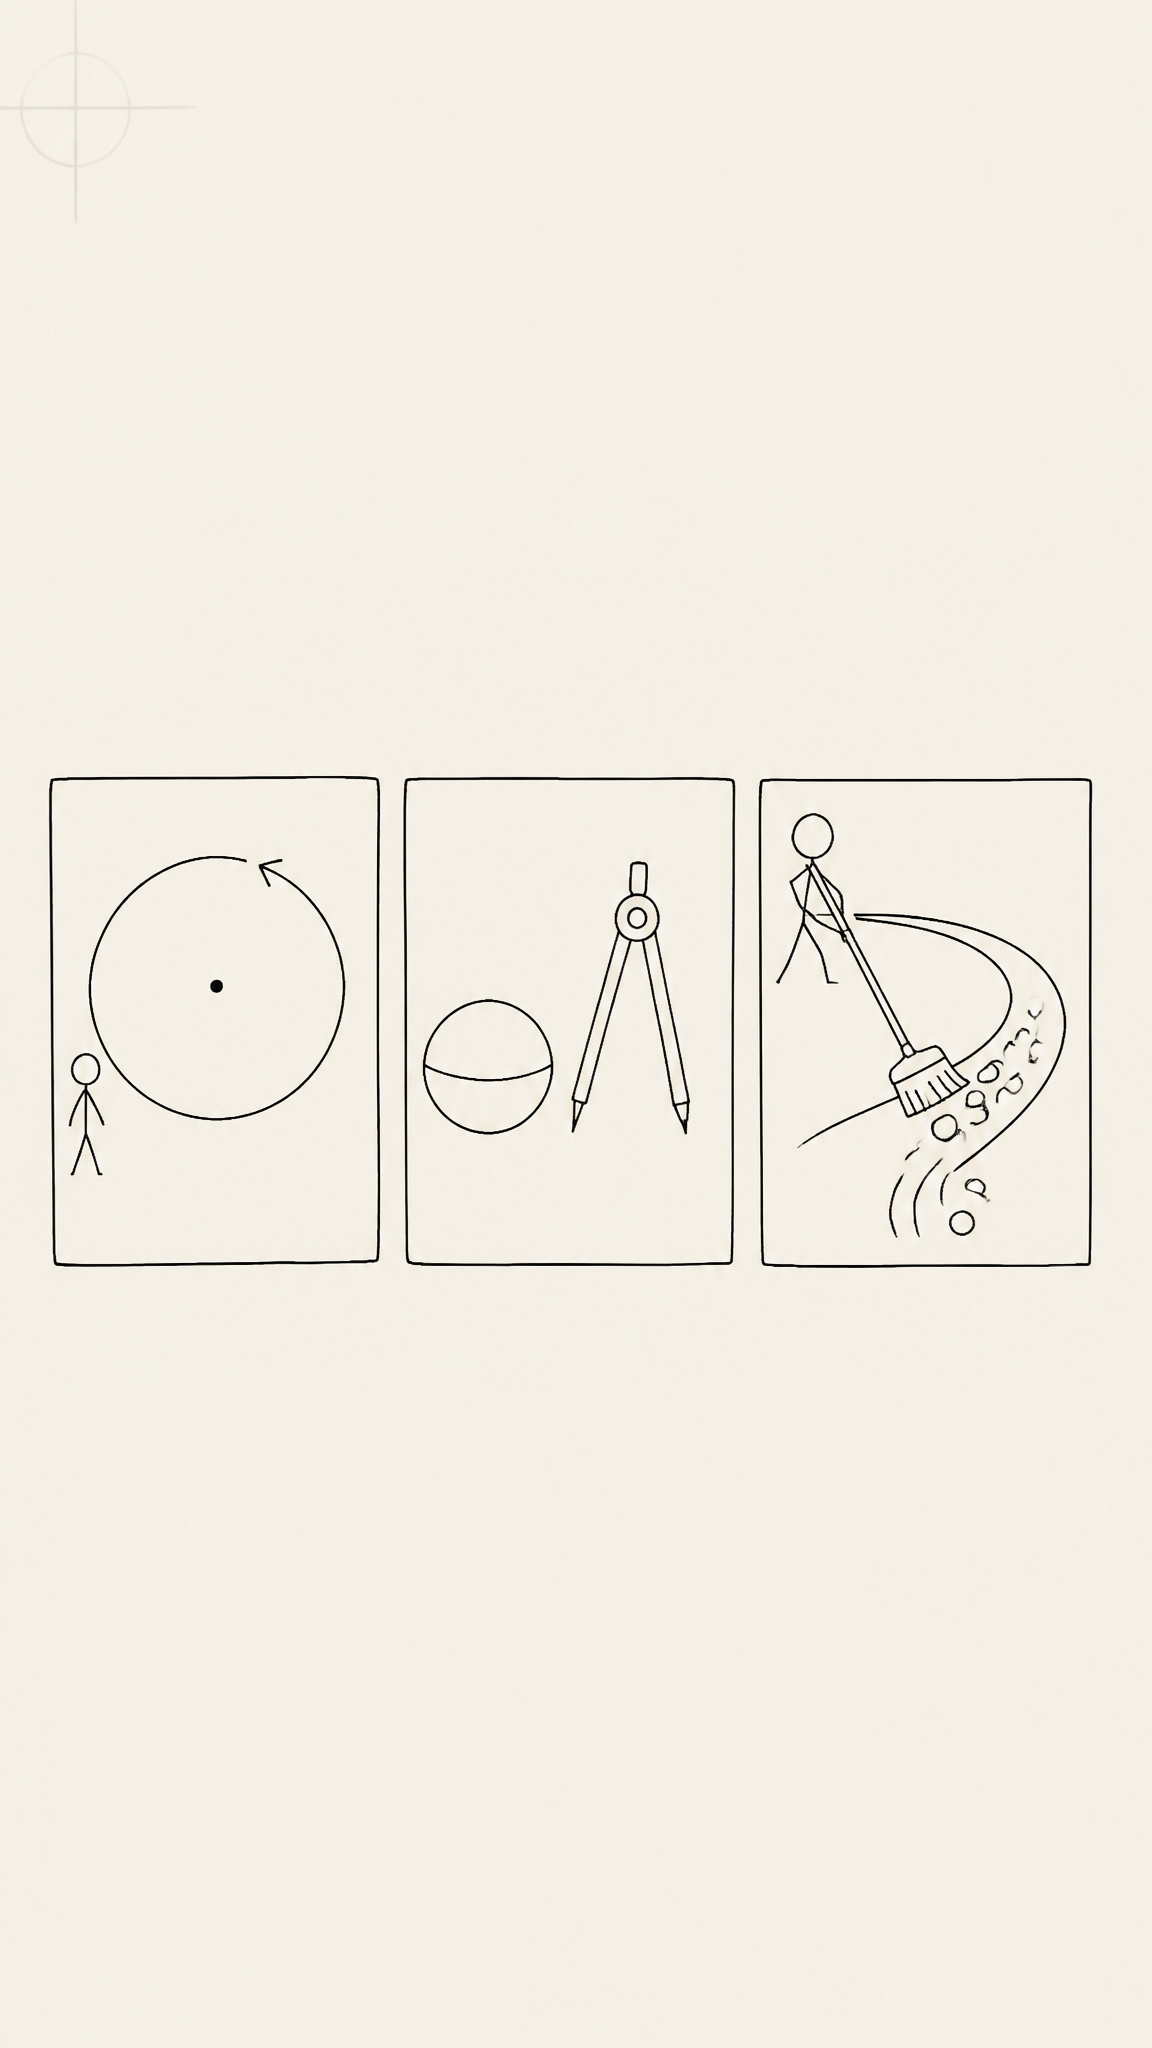
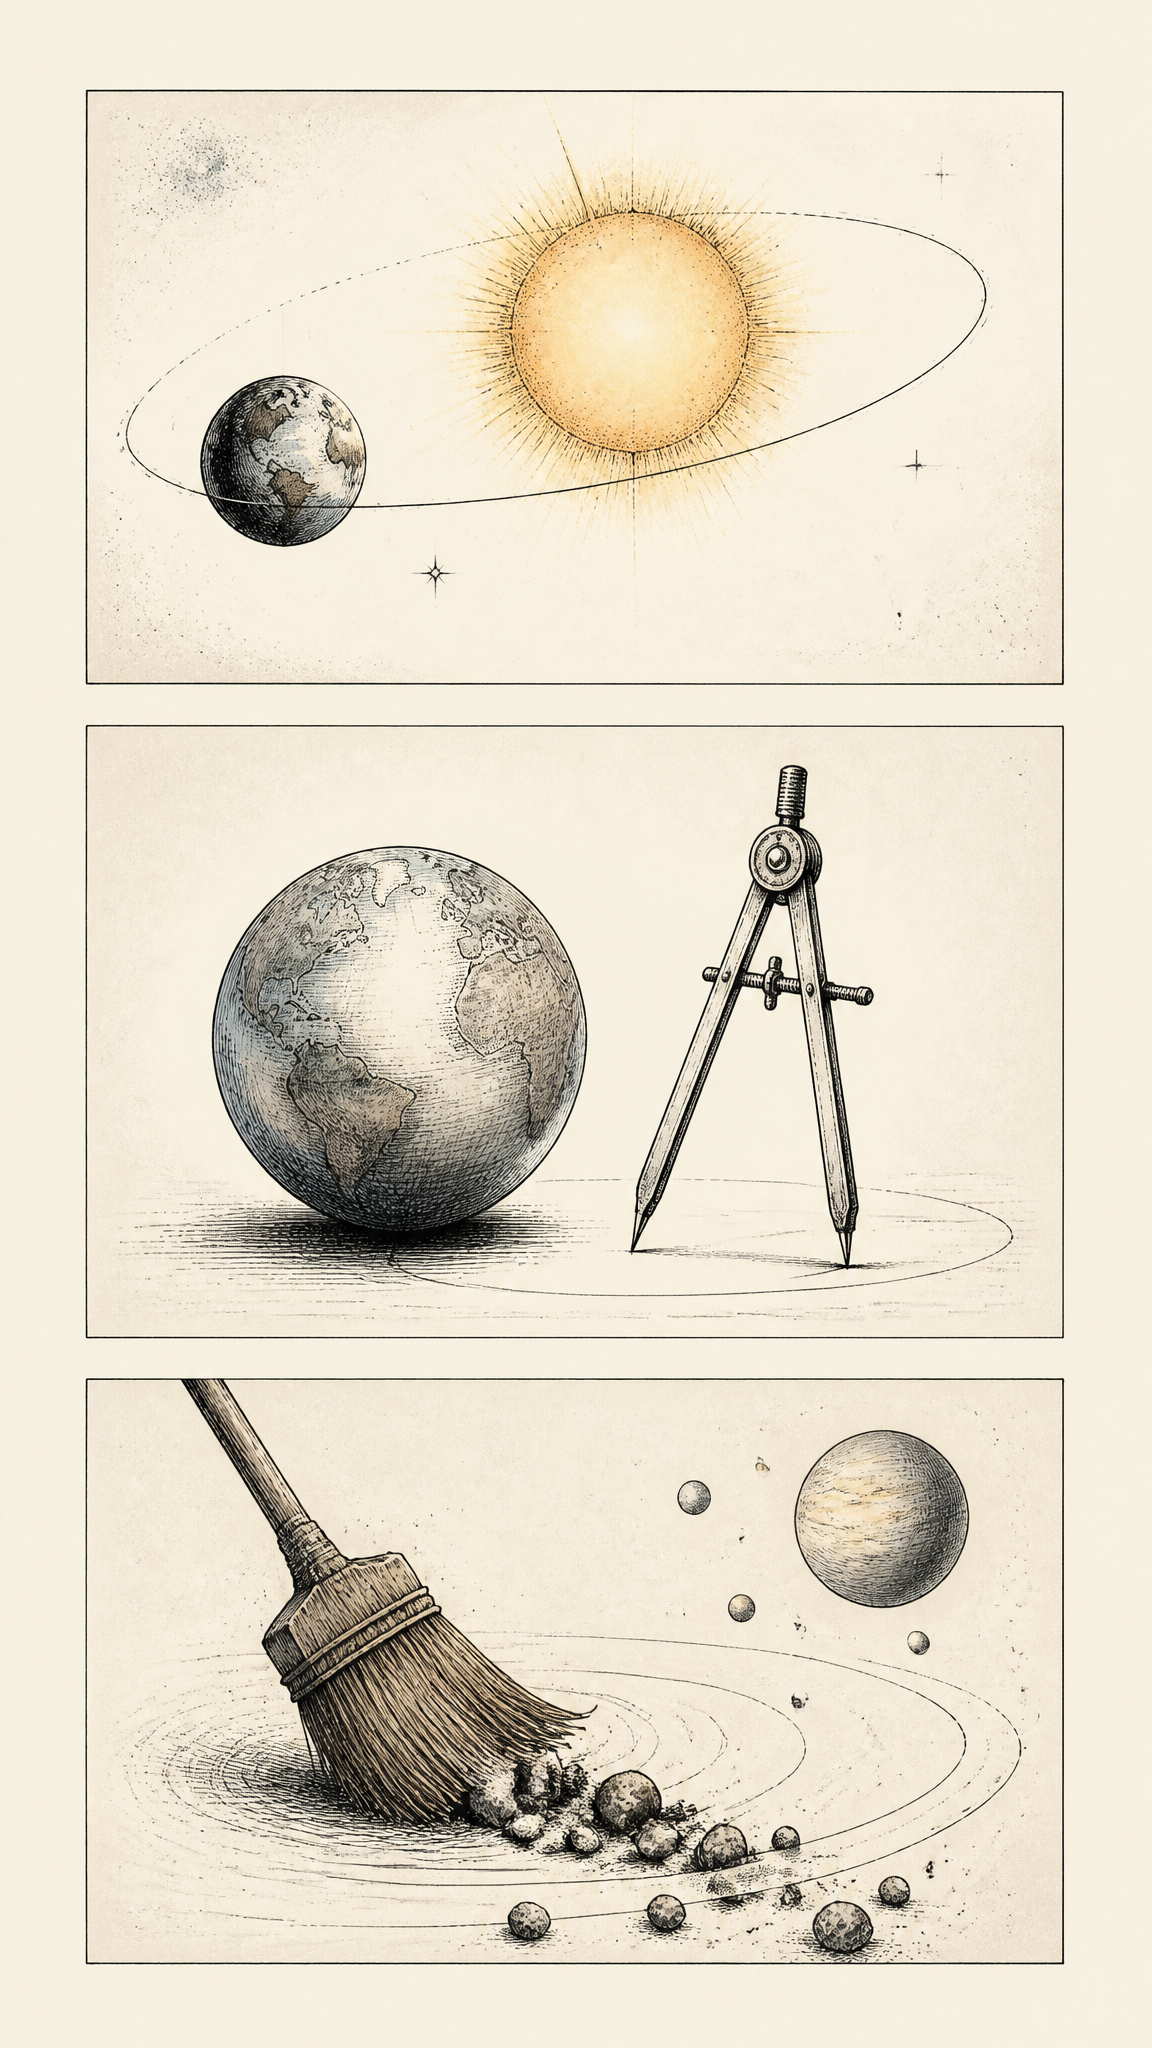
feat(reel): add 8-planets-01 and its generated assets
Day 1 of the plan. Twelve beats: Pluto never moved, never shrank, and still
stopped being a planet -- because the word got defined around it, not because
the rock changed.

First reel built on the new visual system, so it is also the proof that the
subject anchor and the rotating palette do what they claim.

diff --git a/list.md b/list.md
@@ -15,7 +15,7 @@ Each entry gives you: the hook, what to cover, the angle that makes it different
 
 # ARC 1 — PLANETS (Days 1–6)
 
-- [ ] **Day 1 — Why we only have 8 planets**
+- [x] **Day 1 — Why we only have 8 planets**
       Hook: "Pluto didn't change. We did."
       Cover the 2006 definition — orbit the Sun, be round, clear your orbital neighbourhood — and that Pluto only fails the third one. Bring in Eris, the object whose discovery forced the vote in the first place.
       Angle: this is a human committee decision, not a law of nature, which is why the fight never actually ended.
